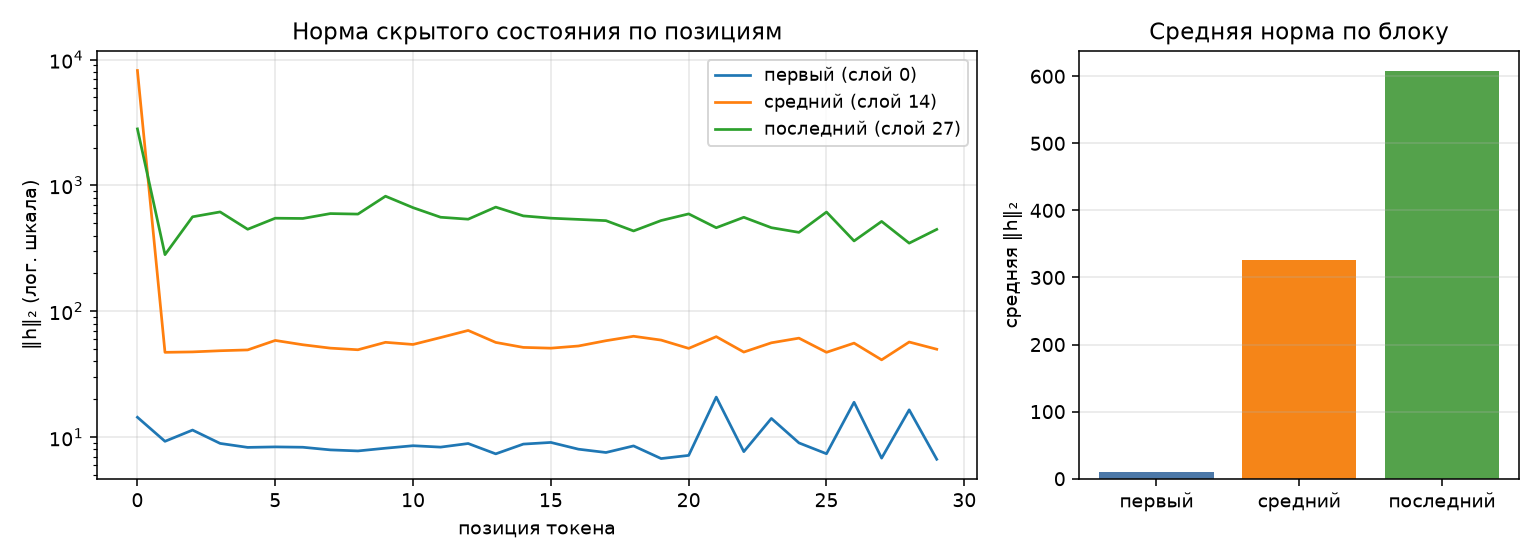
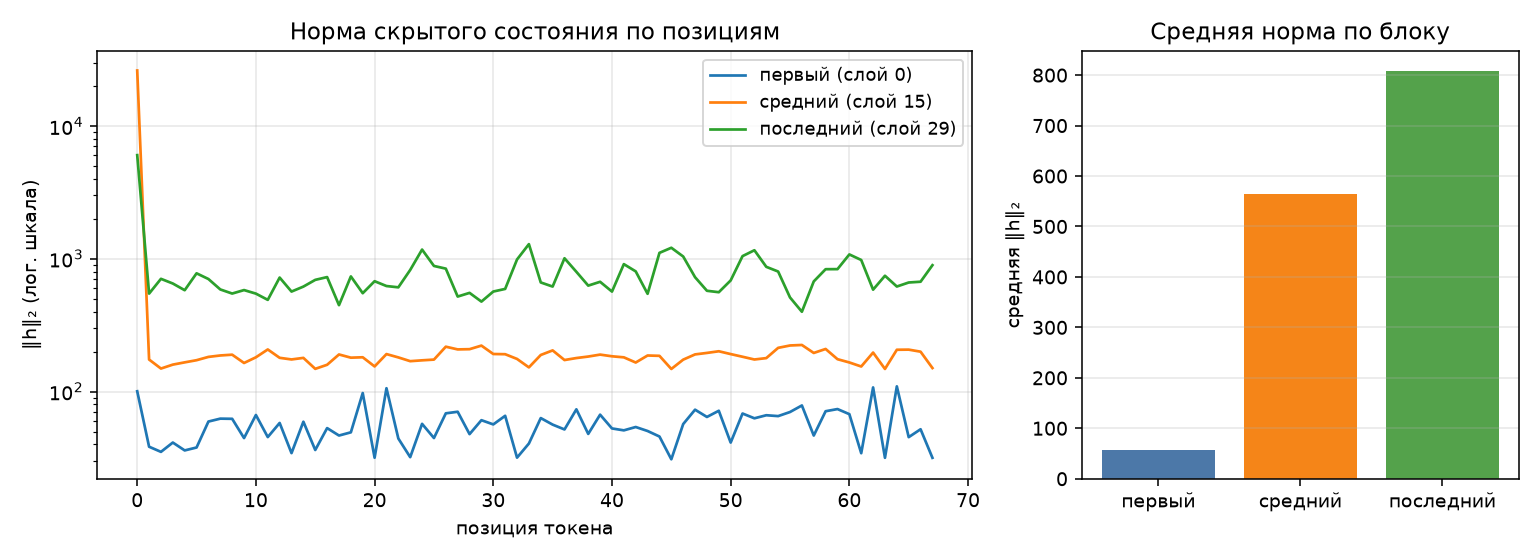
chore(hw1-4): пересчитать бенч, анатомию и токенизацию для SmolLM2-135M

diff --git a/docs/anatomy.md b/docs/anatomy.md
@@ -1,4 +1,4 @@
-# Анатомия Qwen3-0.6B
+# Анатомия SmolLM2-135M-Instruct
 
 Сгенерировано `make inspect`. dtype `bfloat16`, device `mps`.
 
@@ -6,16 +6,16 @@
 
 | Параметр | Значение |
 |---|--:|
-| слоёв | 28 |
-| hidden_size | 1024 |
-| intermediate_size | 3072 |
-| голов запроса | 16 |
-| KV-голов (GQA) | 8 |
-| head_dim | 128 |
-| словарь | 151 936 |
+| слоёв | 30 |
+| hidden_size | 576 |
+| intermediate_size | 1536 |
+| голов запроса | 9 |
+| KV-голов (GQA) | 3 |
+| head_dim | 64 |
+| словарь | 49 152 |
 | tie_word_embeddings | True |
 
-GQA: 16 голов запроса на 8 KV-головы — KV-cache вдвое меньше, чем при обычном multi-head.
+GQA: 9 голов запроса на 3 KV-головы — KV-cache в 3 раза меньше, чем при обычном multi-head.
 
 ## 2. Условия замера
 
@@ -43,34 +43,34 @@ GQA: 16 голов запроса на 8 KV-головы — KV-cache вдвое
 
 | Группа | Модулей | Shape | Параметров | Доля | Разделяет тензор |
 |---|--:|---|--:|--:|--:|
-| `embed` | 1 | 151936×1024 | 155 582 464 | 26.10% | — |
-| `q_proj` | 28 | 2048×1024 | 58 720 256 | 9.85% | — |
-| `k_proj` | 28 | 1024×1024 | 29 360 128 | 4.93% | — |
-| `v_proj` | 28 | 1024×1024 | 29 360 128 | 4.93% | — |
-| `o_proj` | 28 | 1024×2048 | 58 720 256 | 9.85% | — |
-| `gate_proj` | 28 | 3072×1024 | 88 080 384 | 14.78% | — |
-| `up_proj` | 28 | 3072×1024 | 88 080 384 | 14.78% | — |
-| `down_proj` | 28 | 1024×3072 | 88 080 384 | 14.78% | — |
-| `norm` | 113 | 128, 1024 | 65 536 | 0.01% | — |
-| `lm_head` | 1 | 151936×1024 | 0 | 0.00% | 155 582 464 |
-| **итого** | | | **596 049 920** | 100% | |
+| `embed` | 1 | 49152×576 | 28 311 552 | 21.05% | — |
+| `q_proj` | 30 | 576×576 | 9 953 280 | 7.40% | — |
+| `k_proj` | 30 | 192×576 | 3 317 760 | 2.47% | — |
+| `v_proj` | 30 | 192×576 | 3 317 760 | 2.47% | — |
+| `o_proj` | 30 | 576×576 | 9 953 280 | 7.40% | — |
+| `gate_proj` | 30 | 1536×576 | 26 542 080 | 19.73% | — |
+| `up_proj` | 30 | 1536×576 | 26 542 080 | 19.73% | — |
+| `down_proj` | 30 | 576×1536 | 26 542 080 | 19.73% | — |
+| `norm` | 61 | 576 | 35 136 | 0.03% | — |
+| `lm_head` | 1 | 49152×576 | 0 | 0.00% | 28 311 552 |
+| **итого** | | | **134 515 008** | 100% | |
 
-Контроль: `sum(p.numel() for p in model.parameters())` = 596 049 920 — сходится с суммой по таблице.
+Контроль: `sum(p.numel() for p in model.parameters())` = 134 515 008 — сходится с суммой по таблице.
 
 Обратите внимание на строку `lm_head` и на значение `tie_word_embeddings`
 в конфигурации: они связаны, и от этой связи зависит итог таблицы.
 
 ## 4. Нормы активаций (forward-hooks)
 
-Промпт: «Объясни, что такое MLOps, в трёх предложениях.», 30 токенов после chat template.
+Промпт: «Объясни, что такое MLOps, в трёх предложениях.», 68 токенов после chat template.
 
 ![нормы активаций](activations.png)
 
 | Блок | Индекс | Средняя ‖h‖₂ | Максимум |
 |---|--:|--:|--:|
-| первый | 0 | 9.7 | 20.9 |
-| средний | 14 | 325.5 | 8189.7 |
-| последний | 27 | 607.2 | 2815.1 |
+| первый | 0 | 56.8 | 109.5 |
+| средний | 15 | 564.7 | 26134.7 |
+| последний | 29 | 807.3 | 6026.1 |
 
 Норма растёт от блока к блоку — прямое следствие residual-связей: блок
 добавляет к потоку, а не заменяет его. Максимум на порядок-два выше среднего,
@@ -85,8 +85,8 @@ GQA: 16 голов запроса на 8 KV-головы — KV-cache вдвое
 
 | Конфиг | Целевых модулей | Своя формула | peft | Совпало | % от базовой |
 |---|--:|--:|--:|:-:|--:|
-| r=8, q_proj+v_proj | 2 типов | 1 146 880 | 1 146 880 | да | 0.192% |
-| r=16, все линейные | 7 типов | 10 092 544 | 10 092 544 | да | 1.693% |
+| r=8, q_proj+v_proj | 2 типов | 460 800 | 460 800 | да | 0.343% |
+| r=16, все линейные | 7 типов | 4 884 480 | 4 884 480 | да | 3.631% |
 
 Формула: `r * (in_features + out_features)` на каждый целевой `Linear` —
 `A` формы `(r, in)`, `B` формы `(out, r)`, смещений нет. Расхождение с
@@ -108,19 +108,19 @@ GQA: 16 голов запроса на 8 KV-головы — KV-cache вдвое
 
 | Режим | Пик, МБ | Пик RSS, МБ | × к инференсу | Секунд | loss |
 |---|--:|--:|--:|--:|--:|
-| инференс | 2222 | 718 | 1.00 | 4.5 | — |
-| full fine-tune | 6716 | 876 | 3.02 | 21.3 | 14.0841 |
-| LoRA (r=8, q/v) | 3604 | 2027 | 1.62 | 4.9 | 14.0841 |
+| инференс | 1312 | 566 | 1.00 | 4.5 | — |
+| full fine-tune | 1744 | 887 | 1.33 | 6.1 | 13.0492 |
+| LoRA (r=8, q/v) | 1704 | 904 | 1.30 | 10.3 | 13.0492 |
 
-Прикидка из лекции: веса bf16 — 1137 МБ. Full fine-tune добавляет
-градиенты (+1137 МБ) и два состояния AdamW (+2274 МБ),
+Прикидка из лекции: веса bf16 — 257 МБ. Full fine-tune добавляет
+градиенты (+257 МБ) и два состояния AdamW (+513 МБ),
 то есть ×4 к весам ещё до активаций — что и видно в замере.
-LoRA обучает 1 146 880 параметров вместо 596 049 920:
+LoRA обучает 460 800 параметров вместо 134 515 008:
 градиенты и состояния оптимизатора считаются только для адаптера, базовые
 веса заморожены. Остаётся расход на активации — поэтому LoRA всё же дороже
 инференса, хоть и втрое дешевле полного дообучения.
 
-Колонка «Пик RSS» между режимами почти не меняется: разброс 1309 МБ на все три — и это при том, что full fine-tune обязан добавить к весам ещё 3411 МБ.
+Колонка «Пик RSS» между режимами почти не меняется: разброс 338 МБ на все три — и это при том, что full fine-tune обязан добавить к весам ещё 770 МБ.
 Объясните этот разброс: что именно меряет `ru_maxrss` на устройстве `mps` и где на самом деле лежат тензоры.
 
 ## 7. Найденные дефекты

diff --git a/docs/tokenize_report.md b/docs/tokenize_report.md
@@ -2,7 +2,7 @@
 
 Сгенерирован `make tokenize`, руками не правится.
 
-- модель: `Qwen/Qwen3-0.6B`
+- модель: `HuggingFaceTB/SmolLM2-135M-Instruct`
 - `max_seq_len`: 1536
 - `enable_thinking`: false
 - `padding_side`: left
@@ -11,33 +11,33 @@
 
 | сплит | примеров | p50 | p90 | p99 | max | обрезано | всего токенов | в лосс |
 |---|---|---|---|---|---|---|---|---|
-| train | 1330 | 546 | 991 | 1466 | 1962 | 5 (0.4%) | 803723 | 283696 |
-| val | 166 | 565 | 1072 | 1448 | 1561 | 1 (0.6%) | 106421 | 34282 |
+| train | 1324 | 688 | 1209 | 1730 | 2245 | 37 (2.8%) | 988089 | 321046 |
+| val | 166 | 702 | 1328 | 1757 | 1852 | 5 (3.0%) | 132129 | 38509 |
 
-Промпт занимает 65% токенов: без маски лосса именно он и составил бы большую часть обучающего сигнала.
+Промпт занимает 68% токенов: без маски лосса именно он и составил бы большую часть обучающего сигнала.
 
 ## Обрезка
 
-Порог предупреждения: 5.0%. Фактически обрезано (train): 0.4% — в норме.
+Порог предупреждения: 5.0%. Фактически обрезано (train): 2.8% — в норме.
 
-p99 длины в токенах — 1466 при `max_seq_len` 1536; хвост длиной до 1962 теряет конец ответа. Примеров, у которых обрезка съела ответ целиком: 0 (такие выброшены).
+p99 длины в токенах — 1730 при `max_seq_len` 1536; хвост длиной до 2245 теряет конец ответа. Примеров, у которых обрезка съела ответ целиком: 6 (такие выброшены).
 
 ## Граница маски и BPE
 
-Запасной путь по символьным офсетам сработал на 0 примерах train. Основной путь (токены промпта совпадают с началом токенов полного текста) держится, потому что шаблон Qwen3 заканчивает промпт переводом строки — BPE не склеивает его с началом ответа. У шаблона, который обрывается посреди слова, склейка будет, и тогда границу задаёт первый токен, начинающийся не раньше конца промпта.
+Запасной путь по символьным офсетам сработал на 0 примерах train. Основной путь (токены промпта совпадают с началом токенов полного текста) держится, потому что шаблон SmolLM2 заканчивает промпт переводом строки — BPE не склеивает его с началом ответа. У шаблона, который обрывается посреди слова, склейка будет, и тогда границу задаёт первый токен, начинающийся не раньше конца промпта.
 
 ## Прогноз времени обучения
 
-Токенов за эпоху: 803723, эпох: 3, скорость: 52 ток/с.
+Токенов за эпоху: 988089, эпох: 3, скорость: 52 ток/с.
 
-Итого 46369 с (12.88 ч).
+Итого 57005 с (15.83 ч).
 
 tokens_per_sec взят из замера ГЕНЕРАЦИИ в ДЗ 1. Обучение считает ещё backward и шаг оптимизатора, поэтому реальная скорость ниже в 2-3 раза, а прогноз ниже — это оптимистичная граница.
 
 ## Packing
 
-Последовательностей до packing: 1330, бинов по 1536 токенов после: 529 (заполнение 99%, до 6 примеров в бине).
+Последовательностей до packing: 1324, бинов по 1536 токенов после: 659 (заполнение 98%, до 4 примеров в бине).
 
-Шагов оптимизатора при batch_size 8: 167 -> 67 (-60%).
+Шагов оптимизатора при batch_size 8: 166 -> 83 (-50%).
 
 Внимание: без блочно-диагональной маски токены соседних примеров в бине видят друг друга. Рядом с упакованным датасетом сохранены `seq_lens` — по ним такая маска строится.
